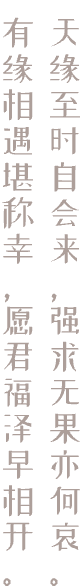
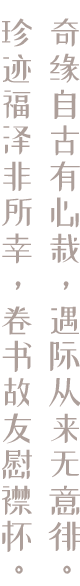
fix: treasure 更换诗词

diff --git a/src/views/adventure/landscape.vue b/src/views/adventure/landscape.vue
@@ -191,7 +191,7 @@
                     </div>
                 </div>
                 <div class="m-producer">
-                    <img src="../../assets/img/treasure/producer.png" />
+                    <img class="u-producer" src="../../assets/img/treasure/producer.png" />
                     <div class="u-producer__text">*剑网3魔盒提供技术支持，茗伊插件提供数据支持。</div>
                 </div>
                 <div class="m-qy-progress">

diff --git a/src/assets/css/adventure/landscape.less b/src/assets/css/adventure/landscape.less
@@ -496,7 +496,10 @@
         flex-wrap: wrap;
         width: 400px;
         justify-content: flex-end;
-
+        padding-right: 30px;
+        .u-producer{
+            width: 293px;
+        }
         .u-producer__text {
             font-size: 16px;
             margin-top: 5px;
